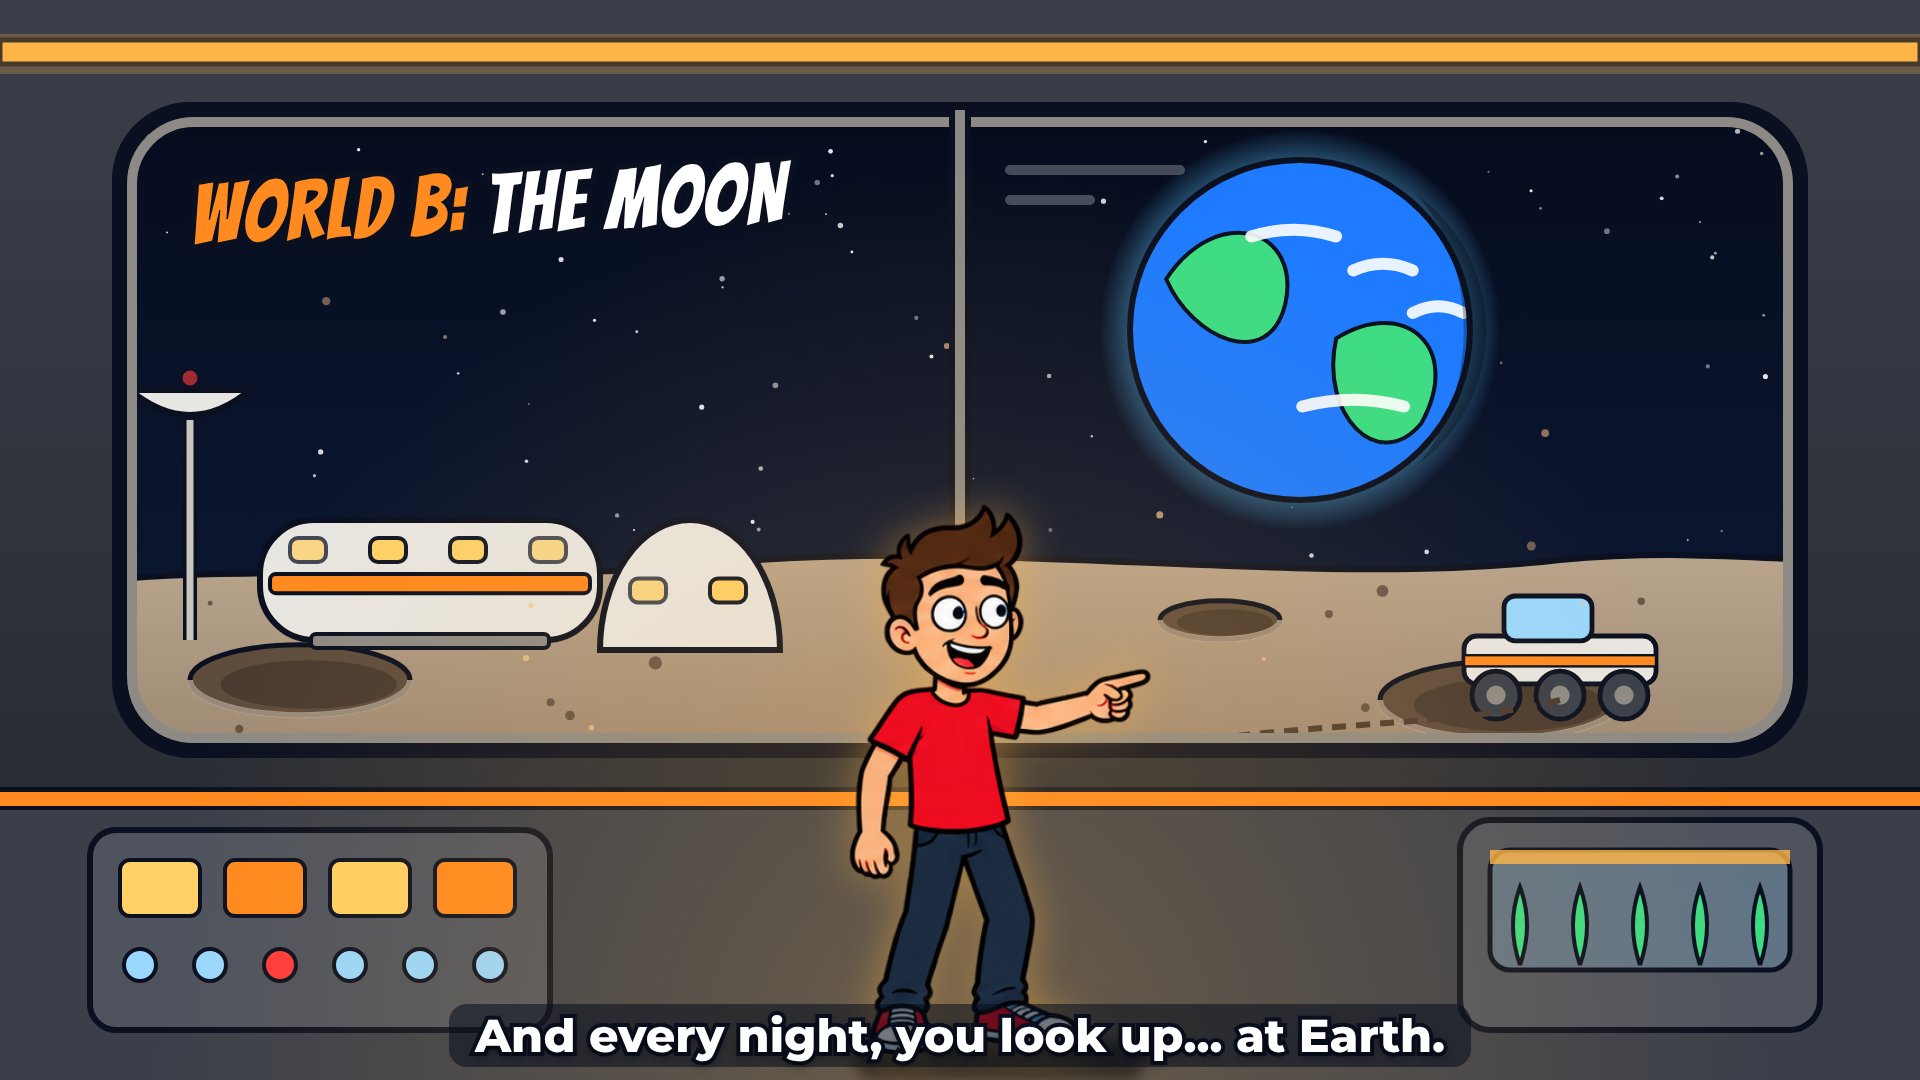
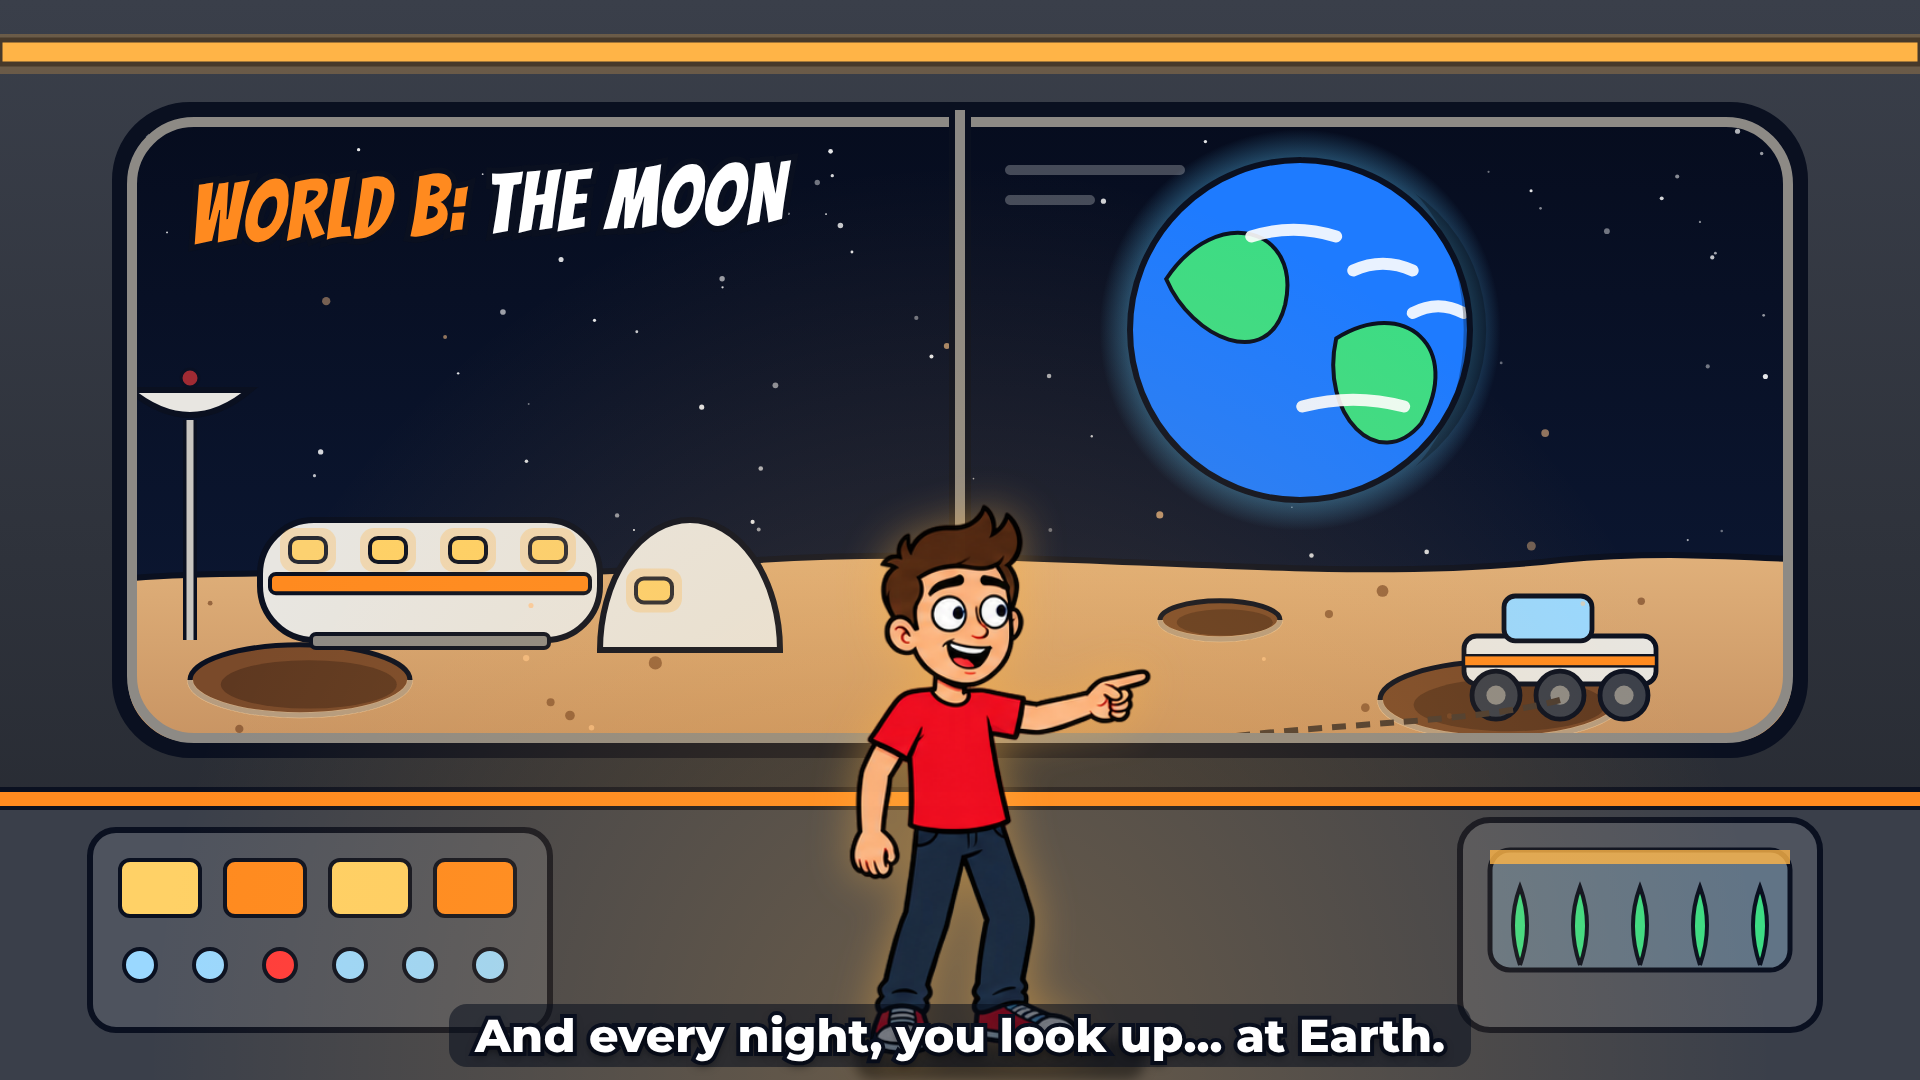
Ocean vs Moon previews v2: vivid creature + bigger moon base, title plate, pointing pose, HUD + danger frame
Claude-Session: https://claude.ai/code/session_01QZBGd8qH4EfV1MNE2nHfnB

Changed region(s): [[0.0625, 0.4889, 0.9375, 0.7028]]

diff --git a/ocean-vs-moon/project/src/Previews.tsx b/ocean-vs-moon/project/src/Previews.tsx
@@ -1,7 +1,7 @@
 import React from "react";
 import { AbsoluteFill } from "remotion";
 import "./fonts";
-import { C, ComicText, FONT, Hero, OUT, OW, Subtitle, Svg, rnd } from "./art/kit";
+import { C, ComicText, FONT, Hero, Hud, OUT, OW, Subtitle, Svg, rnd } from "./art/kit";
 import { Bubbles, Coral, DeepCreature, Dome, FarCity, Fish, GlowPlant, Kelp, OceanWater, SeaFan, Seabed, Tube } from "./art/ocean";
 import { Antenna, Dust, EarthDisc, Module, MoonGround, Rover, SpaceSky } from "./art/moon";
 
@@ -13,14 +13,13 @@ export const Preview1: React.FC = () => (
     {/* ocean half (left, diagonal) */}
     <AbsoluteFill style={{ clipPath: "polygon(0 0, 1080px 0, 840px 100%, 0 100%)" }}>
       <OceanWater t={T} dark />
-      <DeepCreature x={660} y={600} s={0.9} />
+      <DeepCreature x={150} y={610} s={1.2} flip t={T} lure={false} />
       <Seabed y={900} />
-      <Kelp x={90} y={930} h={380} t={T} seed={1} />
-      <Kelp x={170} y={940} h={300} t={T} seed={2} color="#12A884" />
+            <Kelp x={170} y={940} h={300} t={T} seed={2} color="#12A884" />
       <Coral x={330} y={950} s={1.1} seed={2} />
       <GlowPlant x={560} y={950} s={1.1} t={T} seed={3} />
       <Fish x={200} y={330} s={0.7} color={C.coral2} />
-      <Fish x={640} y={420} s={-0.55} color={C.turq} />
+      <Fish x={560} y={860} s={0.55} color={C.turq} />
       <Bubbles t={T} n={22} x0={0} x1={900} />
     </AbsoluteFill>
     {/* moon half (right, diagonal) */}
@@ -29,9 +28,10 @@ export const Preview1: React.FC = () => (
       <EarthDisc cx={1700} cy={200} r={135} t={T} />
       <Svg><path d="M 1000 790 L 1150 600 L 1240 680 L 1360 540 L 1500 700 L 1600 620 L 1760 720 L 1940 600 L 1940 800 Z" fill="#4A4038" stroke={OUT} strokeWidth={OW} strokeLinejoin="round" /><path d="M 1150 600 L 1180 700 M 1360 540 L 1390 660 M 1600 620 L 1630 720" stroke="#6E5A48" strokeWidth={8} /></Svg>
       <MoonGround y={760} />
-      <Module x={1440} y={830} w={300} h={110} t={T} />
-      <Module x={1300} y={830} w={150} h={120} t={T} dome />
-      <Antenna x={1800} y={820} t={T} />
+      <Module x={1430} y={880} w={420} h={170} t={T} />
+      <Module x={1170} y={880} w={270} h={240} t={T} dome />
+      <Antenna x={1880} y={870} t={T} />
+      <Svg><rect x={1150} y={872} width={720} height={26} rx={10} fill="#8D8A85" stroke={OUT} strokeWidth={OW} />{[0, 1, 2, 3, 4, 5, 6, 7].map((i) => <circle key={i} cx={1190 + i * 90} cy={885} r={7} fill={C.amber} />)}</Svg>
       <Dust t={T} n={36} />
     </AbsoluteFill>
     {/* glowing seam */}
@@ -45,7 +45,10 @@ export const Preview1: React.FC = () => (
       <line x1={1080} y1={0} x2={840} y2={1080} stroke="#FFF" strokeWidth={5} />
     </Svg>
     <Hero pose="03_surprised" cx={955} bottom={1020} h={600} light="rgba(255,255,255,0.35)" />
-    <ComicText x={0} y={46} w={1920} size={150} color="#FFF" rot={-2}>
+    <div style={{ position: "absolute", left: 500, top: 26, width: 920, height: 290, rotate: "-2deg", borderRadius: 40, padding: 8, background: "linear-gradient(90deg, #38B6FF, #FFFFFF 50%, #FF8A1F)", boxShadow: `0 12px 0 ${OUT}` }}>
+      <div style={{ width: "100%", height: "100%", borderRadius: 32, background: "rgba(8,12,26,0.86)", border: `6px solid ${OUT}`, boxSizing: "border-box" }} />
+    </div>
+    <ComicText x={0} y={46} w={1920} size={150} color="#FFF" rot={-2} stroke={16}>
       <span style={{ color: "#38B6FF" }}>OCEAN</span> <span style={{ fontSize: 100 }}>VS</span> <span style={{ color: C.orange }}>MOON</span>
     </ComicText>
     <ComicText x={0} y={214} w={1920} size={64} color={C.gold} stroke={10} rot={-2}>WOULD YOU SURVIVE BOTH WORLDS?</ComicText>
@@ -86,7 +89,7 @@ export const Preview2: React.FC = () => (
     <GlowPlant x={1640} y={995} s={1.2} t={T} seed={5} />
     <Kelp x={300} y={995} h={260} t={T} seed={4} />
     <Bubbles t={T} n={30} />
-    <Hero pose="03_surprised" cx={960} bottom={1000} h={520} light="rgba(92,242,255,0.55)" />
+    <Hero pose="01_pointing" cx={930} bottom={1000} h={520} light="rgba(92,242,255,0.55)" />
     <ComicText x={60} y={50} w={900} size={92} color="#FFF" align="left" rot={-2}><span style={{ color: C.cyan }}>WORLD A:</span> THE OCEAN</ComicText>
     <Subtitle text="Imagine living in a glass city at the bottom of the sea." y={1016} />
   </AbsoluteFill>
@@ -181,5 +184,31 @@ export const Preview4: React.FC = () => (
     <Hero pose="02_thinking" cx={960} bottom={1070} h={560} />
     <ComicText x={150} y={955} w={560} size={60} color="#BFE6FF" stroke={11}>WORLD A · OCEAN</ComicText>
     <ComicText x={1210} y={955} w={560} size={60} color="#FFD7A8" stroke={11}>WORLD B · MOON</ComicText>
+  </AbsoluteFill>
+);
+
+/* ---------- 5. DANGER REVEAL (Round 2, World A) + HUD ---------- */
+export const Preview5: React.FC = () => (
+  <AbsoluteFill>
+    <OceanWater t={T} dark />
+    <DeepCreature x={1600} y={360} s={1.55} t={T} />
+    <Bubbles t={T} n={18} />
+    {/* glass tunnel the hero stands in */}
+    <Svg>
+      <path d="M -40 1000 L -40 640 Q 960 250 1960 640 L 1960 1000 Z" fill="rgba(120,220,255,0.08)" stroke={OUT} strokeWidth={OW + 4} />
+      <path d="M 120 560 Q 520 400 820 372" fill="none" stroke="#FFF" strokeWidth={12} strokeLinecap="round" opacity={0.4} />
+      {[220, 600, 1320, 1700].map((x) => { const top = 640 - (1 - Math.pow((x - 960) / 1000, 2)) * 195; return <line key={x} x1={x} y1={top} x2={x} y2={1000} stroke="#7FD8F5" strokeWidth={8} opacity={0.45} />; })}
+      {/* red warning beacons on the ribs */}
+      {[220, 1700].map((x) => { const top = 640 - (1 - Math.pow((x - 960) / 1000, 2)) * 195; return <g key={x}><circle cx={x} cy={top + 30} r={46} fill="#FF3B3B" opacity={0.35} /><circle cx={x} cy={top + 30} r={18} fill="#FF5A5A" stroke={OUT} strokeWidth={5} /></g>; })}
+      <rect x={-40} y={990} width={2000} height={100} fill="#24476B" stroke={OUT} strokeWidth={OW} />
+      {Array.from({ length: 16 }, (_, i) => <rect key={i} x={30 + i * 124} y={1006} width={70} height={10} rx={5} fill="#FF5A5A" />)}
+    </Svg>
+    {/* red alert wash + vignette */}
+    <AbsoluteFill style={{ background: "radial-gradient(ellipse at 50% 55%, rgba(255,40,40,0) 35%, rgba(255,30,30,0.32) 100%)" }} />
+    <Hero pose="07_scared" cx={930} bottom={1000} h={470} light="rgba(255,90,90,0.5)" />
+    <Hud bpm={148} survival={34} />
+    <div style={{ position: "absolute", right: 60, top: 40, padding: "6px 34px", borderRadius: 999, background: "#FF3B3B", border: `${OW + 2}px solid ${OUT}`, boxShadow: `0 8px 0 ${OUT}`, fontFamily: FONT.comic, fontSize: 54, color: "#FFF", letterSpacing: 3, WebkitTextStroke: `6px ${OUT}`, paintOrder: "stroke fill" }}>ROUND 2</div>
+    <ComicText x={700} y={136} w={1160} size={96} color={C.gold} align="right" rot={-2} stroke={14}>YOUR BIGGEST DANGER!</ComicText>
+    <Subtitle text="A gigantic unknown creature is approaching your glass tunnel." y={1016} />
   </AbsoluteFill>
 );

diff --git a/ocean-vs-moon/project/src/art/ocean.tsx b/ocean-vs-moon/project/src/art/ocean.tsx
@@ -107,12 +107,39 @@ export const Fish: React.FC<{ x: number; y: number; s: number; color: string; st
   </g></Svg>
 );
 /** giant deep-sea creature silhouette with a glowing eye (not graphic) */
-export const DeepCreature: React.FC<{ x: number; y: number; s: number; eye?: number }> = ({ x, y, s, eye = 1 }) => (
-  <Svg><g transform={`translate(${x} ${y}) scale(${s})`}>
-    <path d="M -520 30 C -380 -150 -60 -170 160 -90 C 300 -40 420 -60 520 -150 C 500 -40 520 60 560 140 C 440 70 320 70 180 110 C -40 170 -360 170 -520 30 Z" fill="#0B2A4A" stroke="#1F5F96" strokeWidth={6} />
-    <path d="M -470 40 C -330 120 -60 130 170 80" fill="none" stroke="#06182C" strokeWidth={10} opacity={0.7} />
-    <path d="M -520 30 L -470 50 L -440 25 L -410 55 L -380 30 L -350 60" fill="none" stroke="#DDEFFF" strokeWidth={6} strokeLinejoin="round" />
-    <path d="M -300 -110 L -260 -210 L -210 -120 Z M -120 -140 L -70 -250 L -20 -150 Z" fill="#0B2A4A" stroke="#1F5F96" strokeWidth={5} />
-    <circle cx={-380} cy={-40} r={46} fill="#FFDD55" opacity={0.22 * eye} /><circle cx={-380} cy={-40} r={20} fill="#FFE97A" stroke="#06182C" strokeWidth={4} opacity={eye} /><ellipse cx={-380} cy={-40} rx={5} ry={14} fill="#06182C" />
-  </g></Svg>
-);
+export const DeepCreature: React.FC<{ x: number; y: number; s: number; eye?: number; flip?: boolean; t?: number; lure?: boolean }> = ({ x, y, s, eye = 1, flip, t = 0, lure = true }) => {
+  const body = "M -520 30 C -380 -150 -60 -170 160 -90 C 300 -40 420 -60 520 -150 C 500 -40 520 60 560 140 C 440 70 320 70 180 110 C -40 170 -360 170 -520 30 Z";
+  const glow = 0.75 + 0.25 * Math.sin(t * 2);
+  return (
+    <Svg><g transform={`translate(${x} ${y}) scale(${flip ? -s : s} ${s})`}>
+      <defs>
+        <linearGradient id="dcb" x1="0" y1="0" x2="0" y2="1"><stop offset="0%" stopColor="#1E88C8" /><stop offset="60%" stopColor="#145C9E" /><stop offset="100%" stopColor="#2FD3C5" /></linearGradient>
+        <clipPath id="dcc"><path d={body} /></clipPath>
+      </defs>
+      {/* fins */}
+      <path d="M -300 -110 L -250 -230 L -190 -125 Z M -110 -140 L -50 -270 L 10 -145 Z M 60 110 L 120 200 L 170 105 Z" fill="#145C9E" stroke={OUT} strokeWidth={8} strokeLinejoin="round" />
+      <path d={body} fill="url(#dcb)" />
+      {/* belly band + spots (cel shade) */}
+      <g clipPath="url(#dcc)">
+        <path d="M -540 60 C -330 150 -40 140 200 95 L 600 200 L -560 200 Z" fill="#7FF5E6" opacity={0.55} />
+        <path d="M -520 -60 C -340 -180 -60 -190 180 -110 L 180 -200 L -520 -200 Z" fill="#0D3F73" opacity={0.6} />
+        {[[-200, -60, 14], [-120, -90, 10], [-40, -60, 16], [40, -80, 11], [110, -40, 13], [-260, 0, 9], [-60, 0, 10]].map(([cx, cy, r], i) => <g key={i}><circle cx={cx} cy={cy} r={r * 2.2} fill={C.cyan} opacity={0.25 * glow} /><circle cx={cx} cy={cy} r={r} fill="#B6FFF9" /></g>)}
+      </g>
+      <path d={body} fill="none" stroke={OUT} strokeWidth={9} strokeLinejoin="round" />
+      {/* jaw line + teeth (not graphic) */}
+      <path d="M -520 30 C -470 55 -400 70 -330 66" fill="none" stroke={OUT} strokeWidth={7} strokeLinecap="round" />
+      {[-500, -470, -440, -410, -380, -350].map((tx, i) => <path key={i} d={`M ${tx} ${38 + i * 5} l 12 ${i % 2 ? 22 : 28} l 12 -${i % 2 ? 20 : 26} Z`} fill="#FFFFFF" stroke={OUT} strokeWidth={3} strokeLinejoin="round" />)}
+      {/* angler lure */}
+      {lure ? <>
+      <path d="M -330 -110 C -380 -260 -520 -250 -560 -150" fill="none" stroke={OUT} strokeWidth={12} strokeLinecap="round" />
+      <path d="M -330 -110 C -380 -260 -520 -250 -560 -150" fill="none" stroke="#1E88C8" strokeWidth={5} strokeLinecap="round" />
+      <circle cx={-560} cy={-140} r={60} fill="#FFE97A" opacity={0.22 * glow} /><circle cx={-560} cy={-140} r={22} fill="#FFF3A6" stroke={OUT} strokeWidth={5} /></> : null}
+      {/* eye */}
+      <circle cx={-380} cy={-40} r={70} fill="#FFDD55" opacity={0.25 * eye * glow} />
+      <circle cx={-380} cy={-40} r={34} fill="#FFE97A" stroke={OUT} strokeWidth={7} opacity={eye} />
+      <ellipse cx={-376} cy={-40} rx={8} ry={24} fill={OUT} />
+      <circle cx={-392} cy={-54} r={7} fill="#FFF" />
+    </g></Svg>
+  );
+};
+

diff --git a/ocean-vs-moon/project/src/art/kit.tsx b/ocean-vs-moon/project/src/art/kit.tsx
@@ -35,3 +35,37 @@ export const Subtitle: React.FC<{ text: string; y?: number }> = ({ text, y = 940
   <div style={{ position: "absolute", left: 160, top: y, width: 1600, textAlign: "center" }}><span style={{ display: "inline-block", padding: "4px 26px", borderRadius: 18, background: "rgba(6,12,28,0.55)", fontFamily: FONT.ui, fontWeight: 800, fontSize: 46, lineHeight: 1.2, color: "#FFF", WebkitTextStroke: `8px ${OUT}`, paintOrder: "stroke fill", textShadow: "0 4px 10px rgba(0,0,0,0.6)" }}>{text}</span></div>
 );
 export const Fill: React.FC<{ bg: string }> = ({ bg }) => <AbsoluteFill style={{ background: bg }} />;
+
+/**
+ * HUD — small floating panel, top-left. Shown only in danger scenes and choice reveals.
+ * Static layout (0 px jitter); values come from props so they can animate smoothly (count/fill) in the video.
+ */
+export const Hud: React.FC<{ bpm: number; survival: number; beat?: number; x?: number; y?: number }> = ({ bpm, survival, beat = 0, x = 40, y = 36 }) => {
+  const s = Math.max(0, Math.min(100, survival));
+  const barCol = s < 35 ? "#FF3B3B" : s < 65 ? "#FFB547" : "#3DDC84";
+  const hot = bpm >= 120;
+  // ECG trace: flat - spike - flat, drawn once (no per-frame noise)
+  const ecg = "M 0 22 L 40 22 L 50 22 L 58 6 L 66 38 L 74 0 L 82 30 L 90 22 L 130 22 L 140 22 L 148 6 L 156 38 L 164 0 L 172 30 L 180 22 L 214 22";
+  return (
+    <div style={{ position: "absolute", left: x, top: y, width: 500, height: 176, borderRadius: 24, background: "rgba(6,12,28,0.78)", border: `5px solid ${OUT}`, boxShadow: `0 0 0 3px ${hot ? "rgba(255,59,59,0.85)" : "rgba(92,242,255,0.7)"}, 0 10px 24px rgba(0,0,0,0.45)`, fontFamily: FONT.ui, color: "#FFF", fontVariantNumeric: "tabular-nums" }}>
+      {/* row 1: heart + BPM + ECG */}
+      <svg width={70} height={64} viewBox="0 0 70 64" style={{ position: "absolute", left: 18, top: 14 }}>
+        <g transform={`translate(35 34) scale(${1 + 0.08 * beat}) translate(-35 -34)`}>
+          <path d="M 35 58 C 6 38 4 18 16 10 C 26 3 34 10 35 18 C 36 10 44 3 54 10 C 66 18 64 38 35 58 Z" fill="#FF3B3B" stroke={OUT} strokeWidth={5} strokeLinejoin="round" />
+          <path d="M 20 18 Q 24 13 30 15" fill="none" stroke="#FFF" strokeWidth={4} strokeLinecap="round" opacity={0.8} />
+        </g>
+      </svg>
+      <div style={{ position: "absolute", left: 98, top: 12, fontWeight: 900, fontSize: 50, lineHeight: 1 }}>{Math.round(bpm)}</div>
+      <div style={{ position: "absolute", left: 98, top: 62, fontWeight: 800, fontSize: 18, letterSpacing: 3, color: "#9FB4D8" }}>BPM</div>
+      <svg width={214} height={44} viewBox="0 -2 214 44" style={{ position: "absolute", left: 262, top: 22 }}>
+        <path d={ecg} fill="none" stroke={hot ? "#FF5A5A" : C.cyan} strokeWidth={4} strokeLinejoin="round" strokeLinecap="round" />
+      </svg>
+      {/* row 2: survival bar */}
+      <div style={{ position: "absolute", left: 22, top: 100, fontWeight: 900, fontSize: 20, letterSpacing: 3, color: "#9FB4D8" }}>SURVIVAL</div>
+      <div style={{ position: "absolute", left: 22, top: 128, width: 340, height: 30, borderRadius: 999, background: "#1B2438", border: `4px solid ${OUT}`, overflow: "hidden" }}>
+        <div style={{ width: `${s}%`, height: "100%", borderRadius: 999, background: `linear-gradient(180deg, ${barCol}, ${barCol}cc)`, boxShadow: "inset 0 5px 0 rgba(255,255,255,0.35)" }} />
+      </div>
+      <div style={{ position: "absolute", left: 372, top: 104, width: 110, textAlign: "right", fontWeight: 900, fontSize: 52, lineHeight: 1, color: barCol, WebkitTextStroke: `6px ${OUT}`, paintOrder: "stroke fill" }}>{Math.round(s)}%</div>
+    </div>
+  );
+};

diff --git a/ocean-vs-moon/project/src/art/moon.tsx b/ocean-vs-moon/project/src/art/moon.tsx
@@ -28,12 +28,12 @@ export const EarthDisc: React.FC<{ cx: number; cy: number; r: number; t?: number
 /** lunar ground with craters (y = horizon) */
 export const MoonGround: React.FC<{ y?: number; warm?: number }> = ({ y = 700, warm = 1 }) => (
   <Svg>
-    <defs><linearGradient id="mg" x1="0" y1="0" x2="0" y2="1"><stop offset="0%" stopColor={warm ? "#B9A48C" : "#8F8A84"} /><stop offset="100%" stopColor={warm ? "#6E5A48" : "#4E4A46"} /></linearGradient></defs>
+    <defs><linearGradient id="mg" x1="0" y1="0" x2="0" y2="1"><stop offset="0%" stopColor={warm ? "#E0B07A" : "#8F8A84"} /><stop offset="100%" stopColor={warm ? "#9A5E36" : "#4E4A46"} /></linearGradient></defs>
     <path d={`M -20 ${y + 40} C 200 ${y - 10} 420 ${y + 30} 700 ${y + 5} C 980 ${y - 25} 1300 ${y + 30} 1560 ${y} C 1720 ${y - 15} 1840 ${y + 10} 1940 ${y} L 1940 1100 L -20 1100 Z`} fill="url(#mg)" stroke={OUT} strokeWidth={OW} />
     {[[300, y + 120, 110], [900, y + 230, 170], [1500, y + 140, 120], [1220, y + 60, 60], [520, y + 300, 90], [1750, y + 280, 100]].map(([x, yy, r], i) => (
-      <g key={i}><ellipse cx={x} cy={yy} rx={r} ry={r * 0.32} fill="#5E4C3D" stroke={OUT} strokeWidth={OW - 1} /><ellipse cx={x + r * 0.08} cy={yy + r * 0.04} rx={r * 0.8} ry={r * 0.22} fill="#4A3B30" /><path d={`M ${x - r} ${yy} A ${r} ${r * 0.32} 0 0 0 ${x + r} ${yy}`} fill="none" stroke="#D6BFA3" strokeWidth={6} opacity={0.7} /></g>
+      <g key={i}><ellipse cx={x} cy={yy} rx={r} ry={r * 0.32} fill="#7A4A2A" stroke={OUT} strokeWidth={OW - 1} /><ellipse cx={x + r * 0.08} cy={yy + r * 0.04} rx={r * 0.8} ry={r * 0.22} fill="#5E3820" /><path d={`M ${x - r} ${yy} A ${r} ${r * 0.32} 0 0 0 ${x + r} ${yy}`} fill="none" stroke="#FFD9A8" strokeWidth={6} opacity={0.7} /></g>
     ))}
-    {Array.from({ length: 40 }, (_, i) => <circle key={i} cx={rnd(i, 21) * 1920} cy={y + 30 + rnd(i, 22) * 380} r={2 + rnd(i, 23) * 5} fill="#4A3B30" opacity={0.7} />)}
+    {Array.from({ length: 40 }, (_, i) => <circle key={i} cx={rnd(i, 21) * 1920} cy={y + 30 + rnd(i, 22) * 380} r={2 + rnd(i, 23) * 5} fill="#7A4A2A" opacity={0.7} />)}
   </Svg>
 );
 /** habitat module: cylinder with windows and an amber light strip */
@@ -41,7 +41,7 @@ export const Module: React.FC<{ x: number; y: number; w: number; h: number; t?: 
   <Svg>
     {dome ? <path d={`M ${x} ${y} A ${w / 2} ${h} 0 0 1 ${x + w} ${y} Z`} fill="#E8E6E1" stroke={OUT} strokeWidth={OW} /> : <rect x={x} y={y - h} width={w} height={h} rx={h * 0.45} fill="#E8E6E1" stroke={OUT} strokeWidth={OW} />}
     {!dome ? <rect x={x + 10} y={y - h * 0.55} width={w - 20} height={h * 0.16} rx={6} fill={C.orange} stroke={OUT} strokeWidth={4} /> : null}
-    {Array.from({ length: Math.max(1, Math.floor(w / 80)) }, (_, i) => <rect key={i} x={x + 30 + i * 80} y={y - h * (dome ? 0.55 : 0.85)} width={36} height={24} rx={8} fill={C.gold} stroke={OUT} strokeWidth={4} opacity={0.7 + 0.3 * Math.sin(t * 2 + i)} />)}
+    {Array.from({ length: dome ? Math.max(1, Math.floor(w * 0.6 / 80)) : Math.max(1, Math.floor(w / 80)) }, (_, i) => { const wx = (dome ? x + w * 0.2 : x + 30) + i * 80, wy = y - h * (dome ? 0.55 : 0.85), ww = Math.max(36, h * 0.24), wh = Math.max(24, h * 0.16); return <g key={i}><rect x={wx - 10} y={wy - 10} width={ww + 20} height={wh + 20} rx={14} fill={C.amber} opacity={0.3} /><rect x={wx} y={wy} width={ww} height={wh} rx={8} fill={C.gold} stroke={OUT} strokeWidth={4} opacity={0.85 + 0.15 * Math.sin(t * 2 + i)} /></g>; })}
     {!dome ? <rect x={x + w * 0.15} y={y - 6} width={w * 0.7} height={14} rx={5} fill="#8D8A85" stroke={OUT} strokeWidth={4} /> : null}
   </Svg>
 );

diff --git a/ocean-vs-moon/project/src/Root.tsx b/ocean-vs-moon/project/src/Root.tsx
@@ -1,6 +1,6 @@
 import React from "react";
 import { Still } from "remotion";
-import { Preview1, Preview2, Preview3, Preview4 } from "./Previews";
+import { Preview1, Preview2, Preview3, Preview4, Preview5 } from "./Previews";
 
 export const RemotionRoot: React.FC = () => (
   <>
@@ -8,5 +8,6 @@ export const RemotionRoot: React.FC = () => (
     <Still id="Preview2" component={Preview2} width={1920} height={1080} />
     <Still id="Preview3" component={Preview3} width={1920} height={1080} />
     <Still id="Preview4" component={Preview4} width={1920} height={1080} />
+    <Still id="Preview5" component={Preview5} width={1920} height={1080} />
   </>
 );
